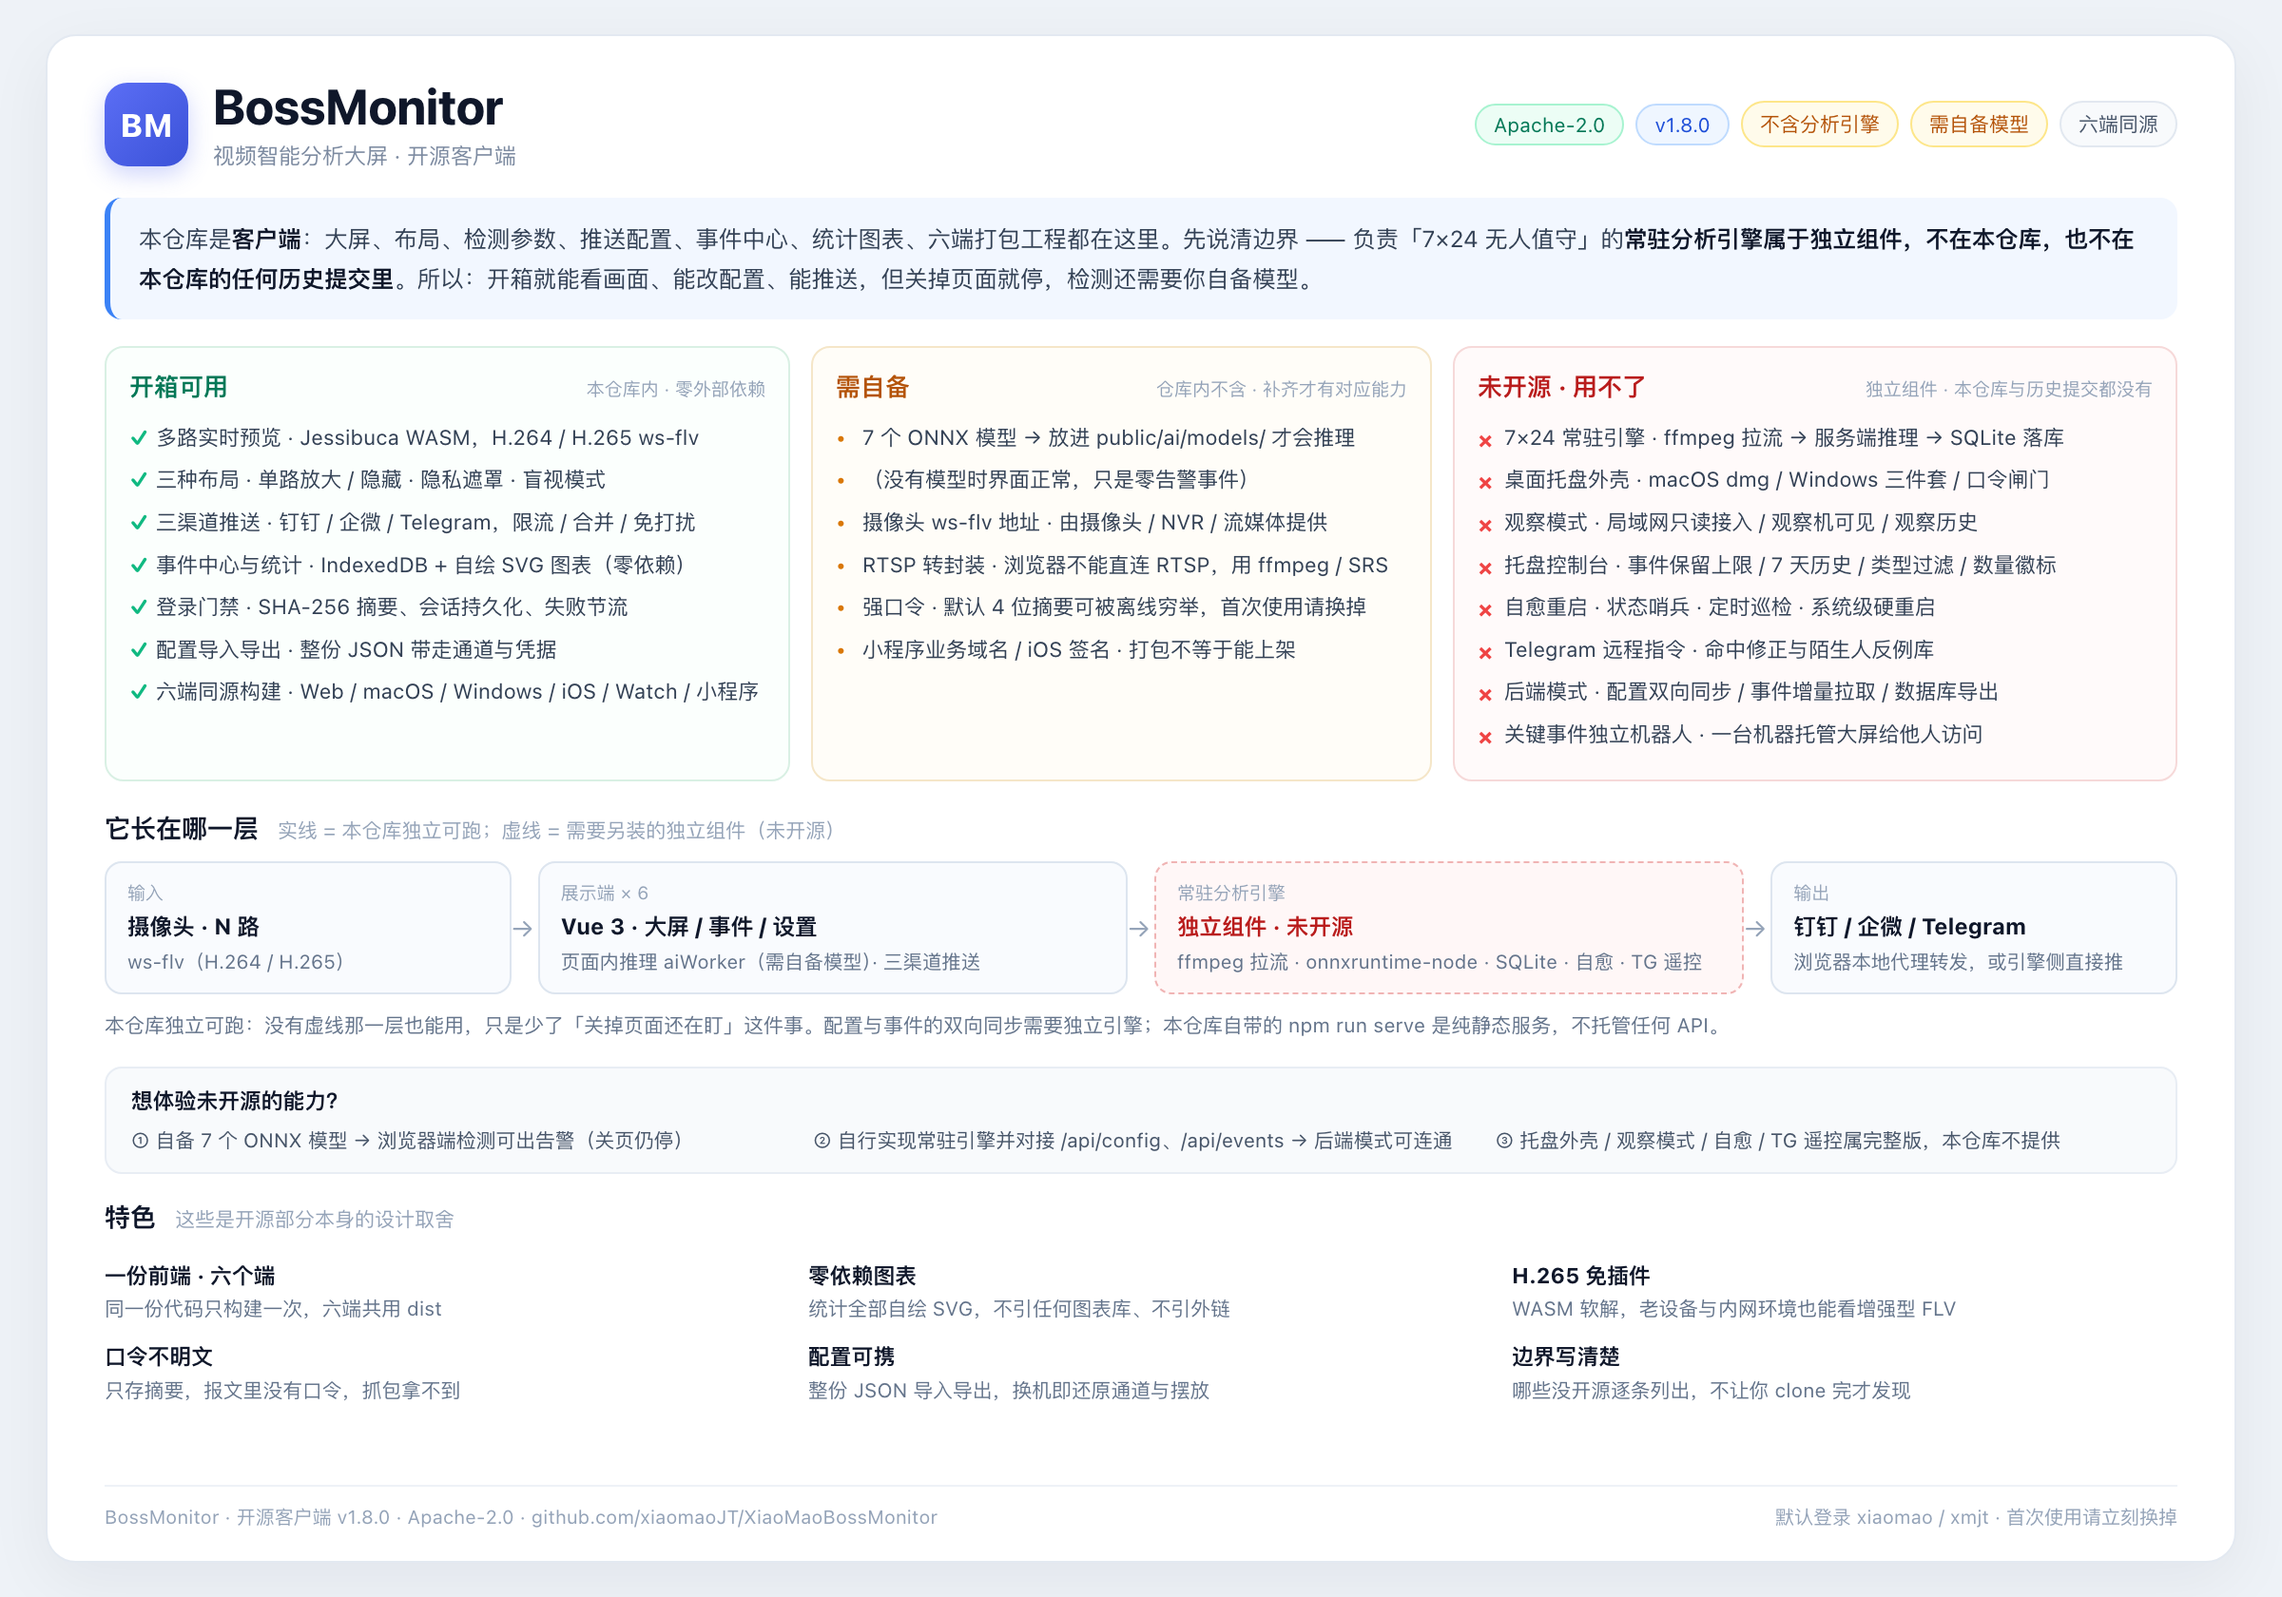
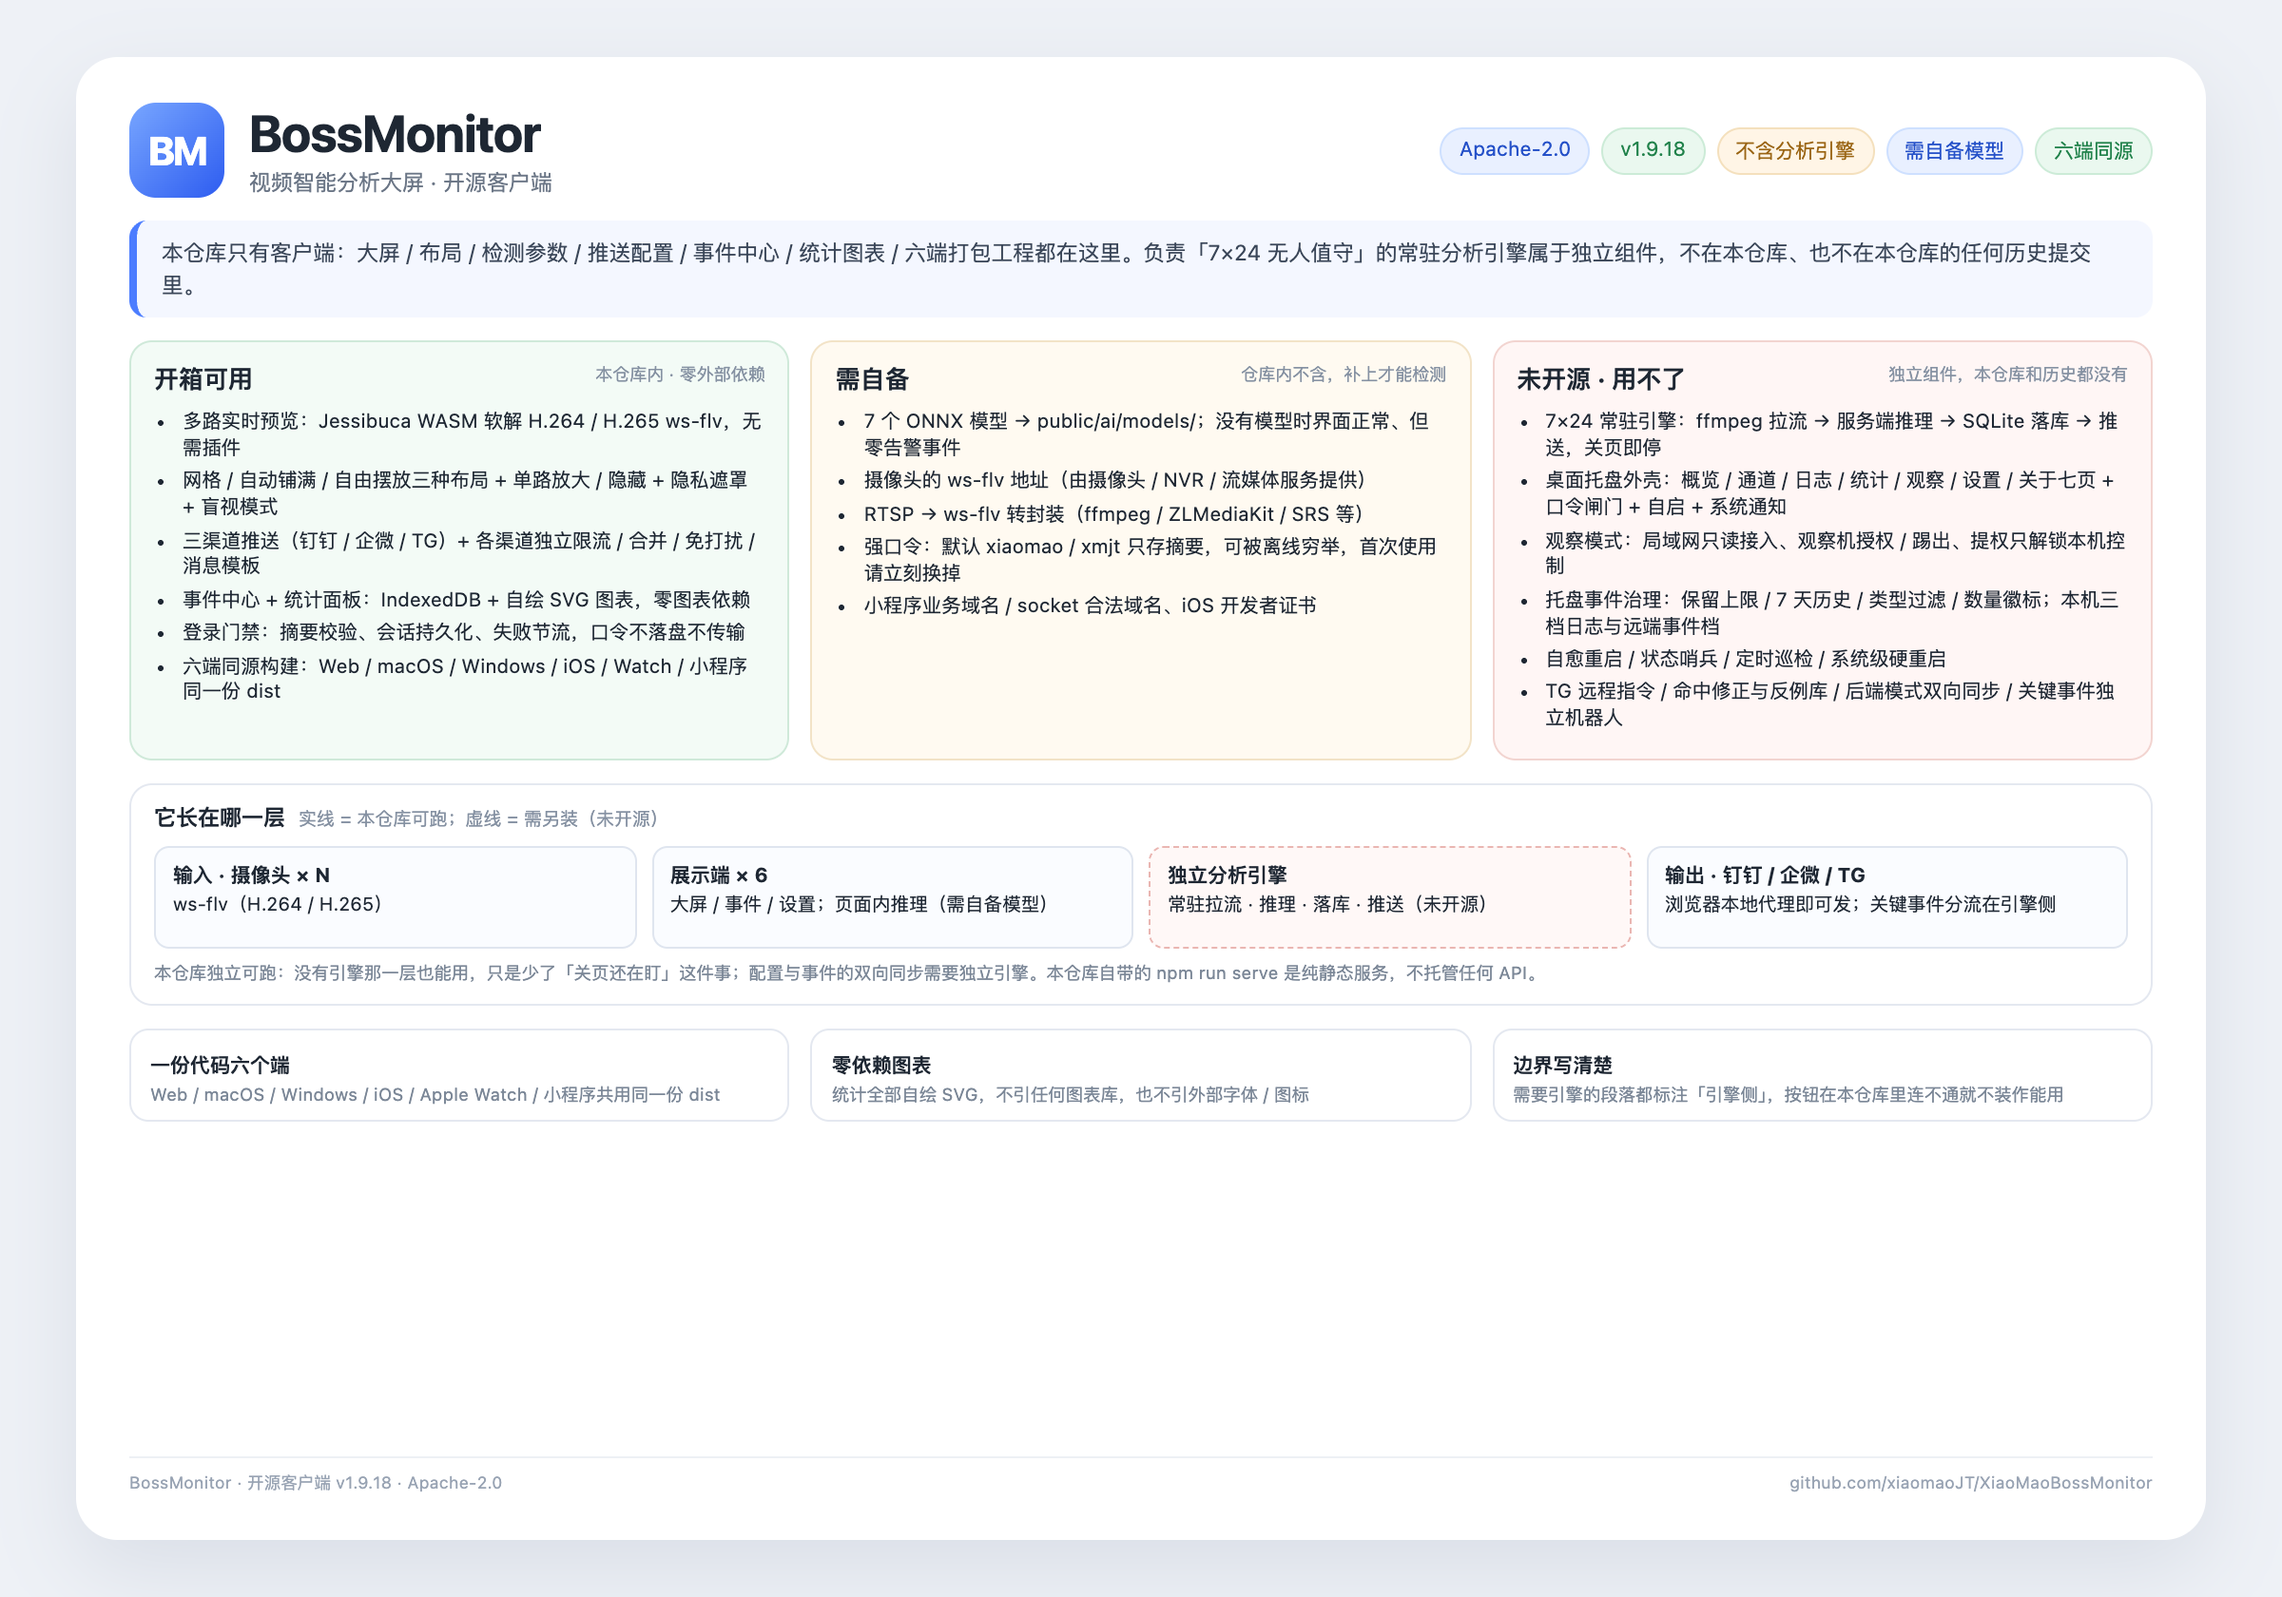
docs: 刷新公开仓总览图与 README 截图、能力对照描述

diff --git a/README.md b/README.md
@@ -2,13 +2,13 @@
 
 > **这是客户端。** 大屏、布局、检测参数、推送配置、事件中心、统计图表、六端打包工程都在这里；负责「7×24 无人值守」的常驻分析引擎属于独立组件，**不在本仓库，也不在本仓库的任何历史提交里**。
 
-![BossMonitor 开源客户端总览：开箱可用 / 需自备 / 未开源三栏对照、所处层次与设计特色](docs/images/overview-oss.png)
+![BossMonitor 开源客户端总览（v1.9.18）：开箱可用 / 需自备 / 未开源三栏对照、所处层次与设计特色（示意图，非真实截图）](docs/images/overview-oss.png)
 
 | | |
 |---|---|
 | **开箱能做什么** | 多路实时预览、三种布局、隐私遮罩、三渠道推送（含限流/合并/免打扰）、事件中心与统计、登录门禁、六端同源构建 |
 | **还差什么才能检测** | 7 个 ONNX 模型（自己导出后放进 `public/ai/models/`）——**没有模型时界面正常，只是不产生告警事件** |
-| **不在这里的** | 常驻引擎（ffmpeg / 服务端推理 / SQLite）、桌面托盘外壳、观察模式、托盘事件治理、自愈与哨兵、TG 远程指令、后端模式 → **关掉页面就停**。逐项对照见[第四章](#四尚未开源的部分) |
+| **不在这里的** | 常驻引擎（ffmpeg / 服务端推理 / SQLite）、桌面托盘七页控制台、观察模式、托盘事件治理、自愈与哨兵、TG 远程指令、命中修正与反例库、后端模式 → **关掉页面就停**。逐项对照见[第四章](#四尚未开源的部分) |
 
 ---
 
@@ -44,6 +44,8 @@ npm run dev            # http://127.0.0.1:5173
 
 > ⚠ **默认口令只用于第一次进去看，不要就这么用。** 它是 4 位、收录在任何字典里，而前端只存 `sha256(账号:口令)` 的摘要——摘要可以被离线穷举。换口令的方法见 [docs/登录鉴权方案.md](docs/登录鉴权方案.md) 第七章（一条 `node -e` 命令生成新摘要，替换 `src/config/auth.js` 后重新构建）。
 
+![登录门禁：未登录不实例化大屏，账号已打码、截图已脱敏](docs/images/ui-login.png)
+
 登录后：设置 → 监控通道 → 填一个 ws-flv 地址（形如 `wss://host/live/camera1.flv`），保存并应用，画面就会出来。
 
 想直接出静态产物带走：
@@ -60,6 +62,14 @@ npm run serve          # 起本地静态服务并打开浏览器（含钉钉/企
 ## 二、开箱可用的能力
 
 以下全部在浏览器里跑，不需要任何服务端。
+
+客户端界面长这样（同一份 `dist`；截图取自完整版运行实例，界面与本仓库一致，数据已脱敏）：
+
+| 事件中心 · 类型筛选与列表 | 统计面板 · KPI / 趋势 / 分布 |
+|---|---|
+| ![客户端事件中心：今日/历史/未读分类与类型筛选（截图已脱敏）](docs/images/ui-events.png) | ![客户端统计面板：KPI、趋势、环形、分布与推送成功率（截图已脱敏）](docs/images/ui-stats.png) |
+
+配置页、盲视、隐私遮罩与人员流向的更多截图见 [docs/使用手册.md](docs/使用手册.md) 第二、三章。
 
 ### 画面与播放
 
@@ -199,7 +209,7 @@ npm run serve          # 起本地静态服务并打开浏览器（含钉钉/企
 │  浏览器 / macOS(Electron) / Windows / iOS(Capacitor) / 小程序(web-view)     │
 │    ├─ 大屏画面    CameraTile × N ── Jessibuca(WASM) ── 摄像头 ws-flv        │
 │    ├─ 事件列表    EventPanel  ← IndexedDB(useEventStore)                    │
-│    ├─ 设置抽屉    SettingsDrawer（18 个分页）                                │
+│    ├─ 设置抽屉    SettingsDrawer（19 个分页）                                │
 │    └─ 页面内推理  aiWorker(ONNX Runtime Web) + 推送调度(useAlertPush)        │
 └───────────────────────────────┬──────────────────────────────────────────┘
                                 │ 可选：HTTP 双向同步（需要独立引擎，未开源）
@@ -237,13 +247,13 @@ XiaoMaoBossMonitor/
 │  │  ├─ TopBar.vue            顶栏（布局切换 / 在线数 / 今日报警 / 入口按钮）
 │  │  ├─ CameraTile.vue        单路画面（播放器 / 检测循环 / 区域绘制 / 芯片）
 │  │  ├─ EventPanel.vue        事件列表（筛选 / 详情弹窗 / 导出）
-│  │  ├─ SettingsDrawer.vue    设置抽屉（18 个分页，外壳在 settings/ 下按页拆）
+│  │  ├─ SettingsDrawer.vue    设置抽屉（19 个分页，外壳在 settings/ 下按页拆）
 │  │  ├─ StatsPanel.vue        统计面板（KPI / 趋势 / 环形 / 分布 / 热力图）
 │  │  ├─ charts/               统计图表件 —— 全部自绘 SVG、零依赖（见 5.21）
 │  │  ├─ LoginView.vue         登录页（玻璃风格 / 账号预填 / 保持登录 / 失败锁定）
 │  │  ├─ AboutSystem.vue       关于系统（运行时长 / 推送统计 / 登录会话 / 设备信息）
 │  │  └─ …                     模板编辑 / 隐私遮罩 / 通知栈 / 自定义下拉 / 说明气泡
-│  ├─ composables/             37 个可复用逻辑单元，见下表
+│  ├─ composables/             39 个可复用逻辑单元，见下表
 │  ├─ config/
 │  │  ├─ defaults.js           两层配置：初始化配置 + 默认值（全部空白）
 │  │  ├─ auth.js               本地校验型口令的**摘要**权威（登录 / 遮罩）+ 会话键 / 有效期 / 锁定阈值

diff --git a/CHANGELOG.md b/CHANGELOG.md
@@ -30,6 +30,7 @@
 ### 文档（不涉及源码）
 
 - `docs/使用手册.md` 新增「12. 桌面托盘控制台（引擎侧 · 本仓库不可用）」，收 13 张完整版 v2.8.7 真实截图（已脱敏）；`README.md` 4.1 放概览 / 日志-事件两张作边界示意，并把版本口径行的完整版版本号同步到 v2.8.7。仅文档改动，本仓库修订号不变。
+- 重绘 `docs/images/overview-oss.png` 为 v1.9.18（原图停在 v1.8.0），三栏对照补齐托盘七页控制台、观察模式、命中修正与反例库、后端模式；README 补登录页 / 事件中心 / 统计面板三张真实客户端截图，设置抽屉 19 页、composables 39 个与「不在这里的」清单同步。
 
 ## [1.9.17] — 2026-11-24
 
